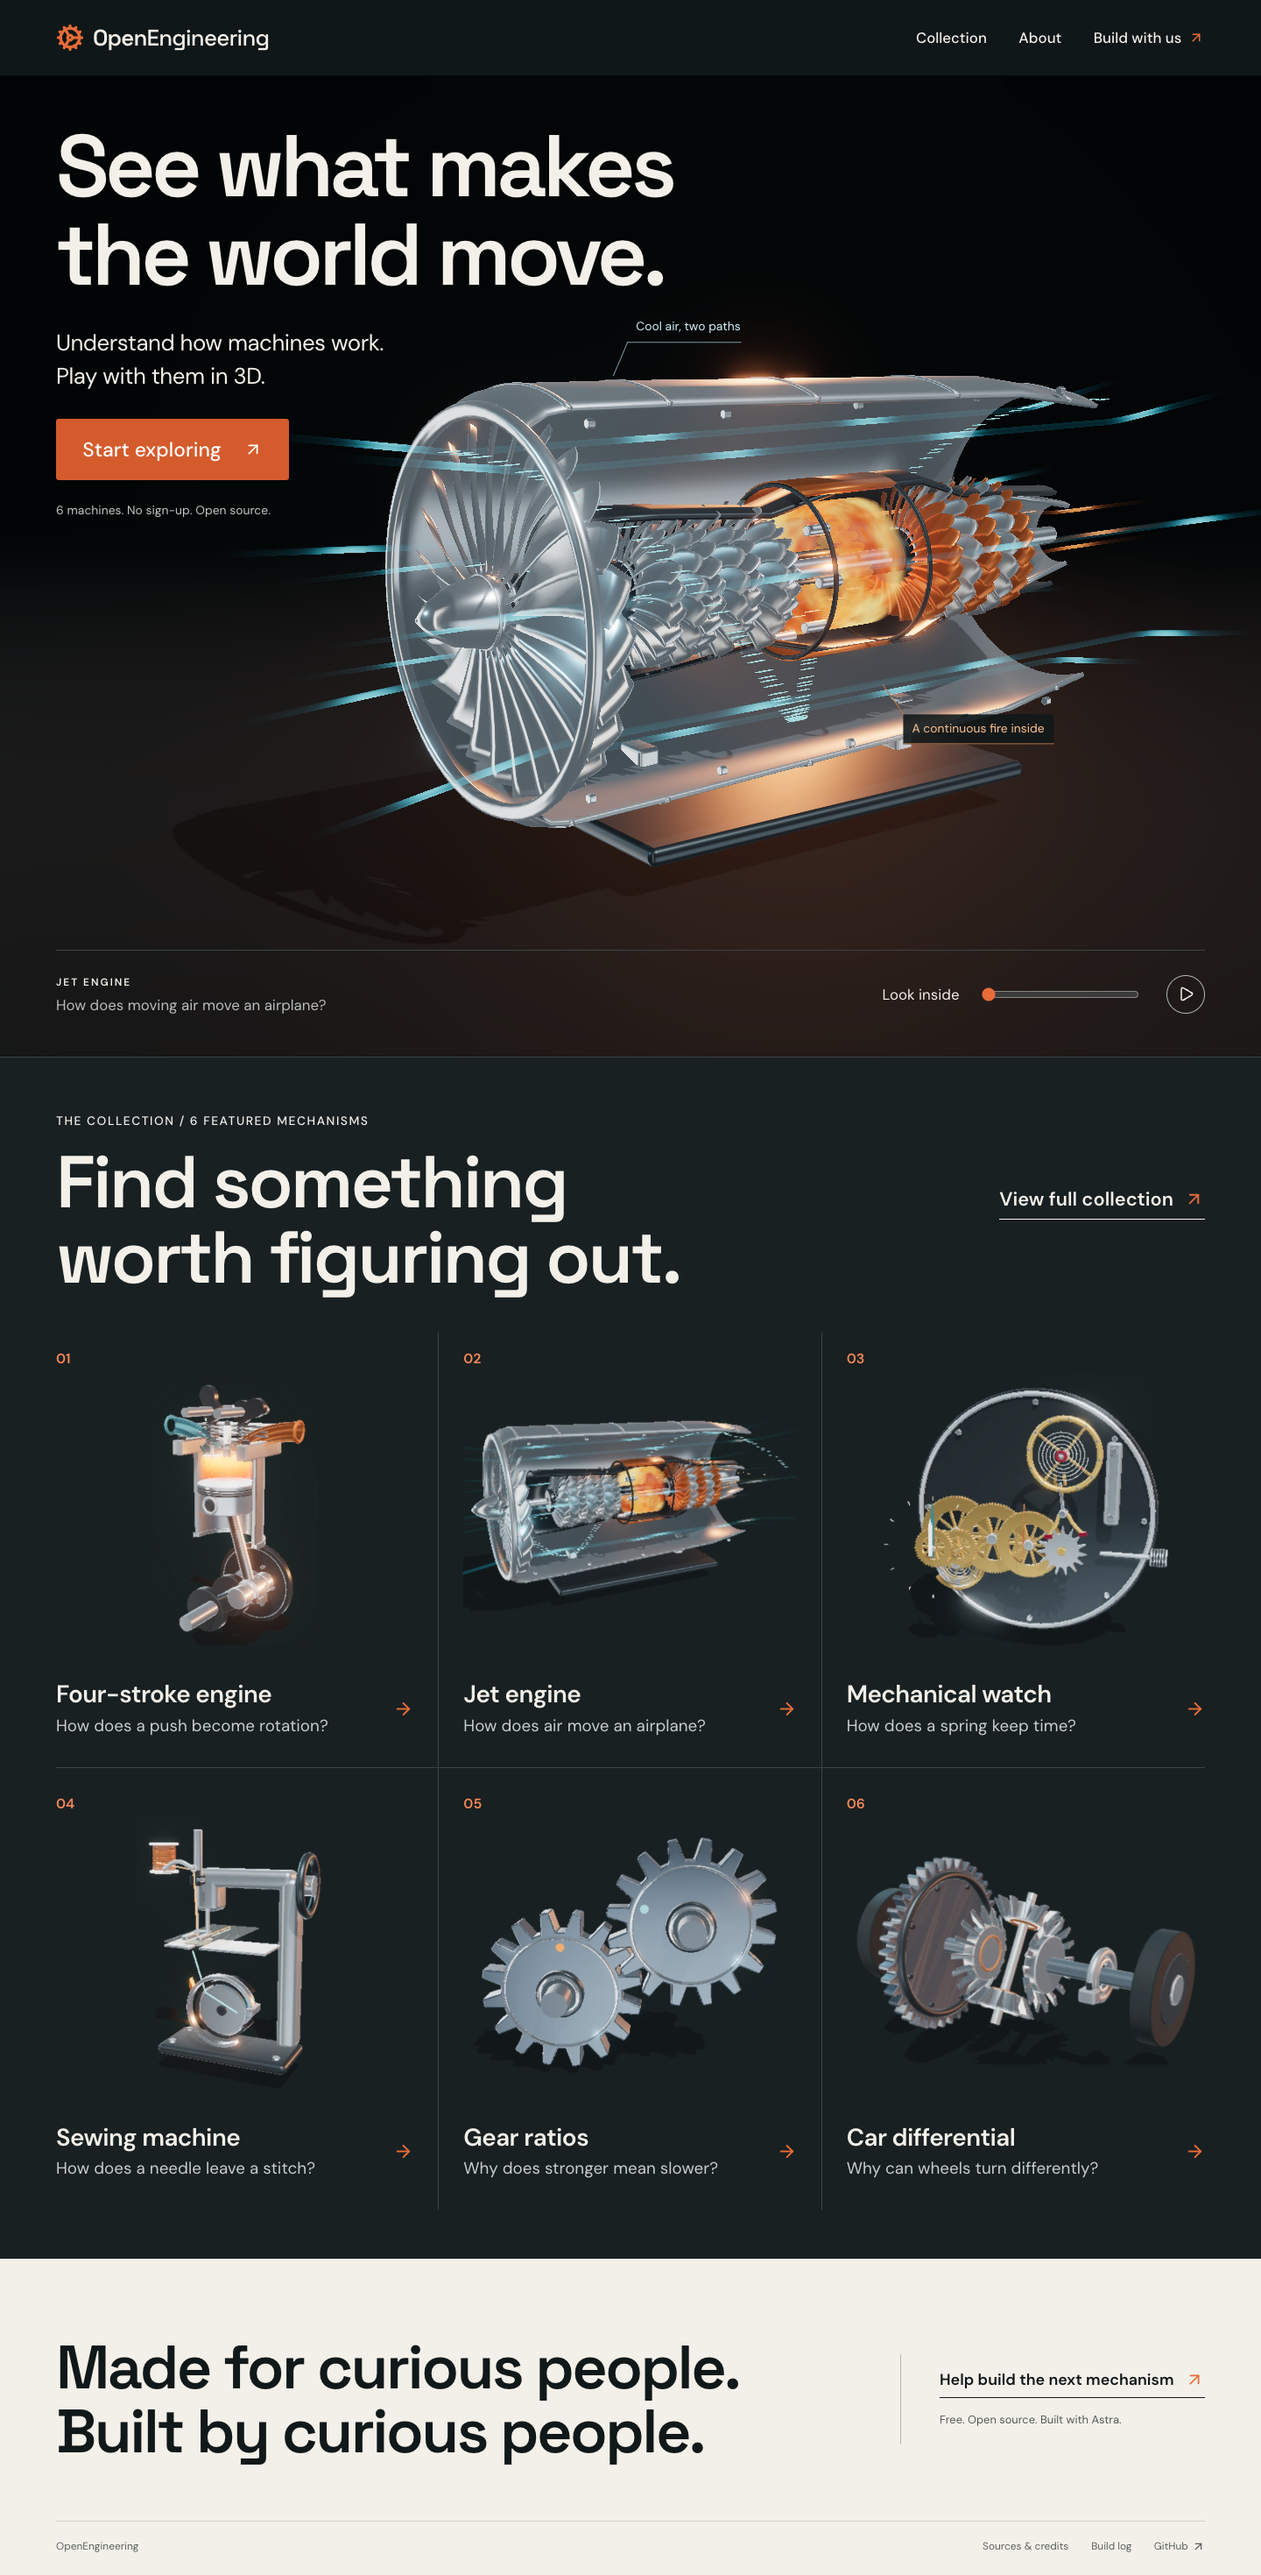
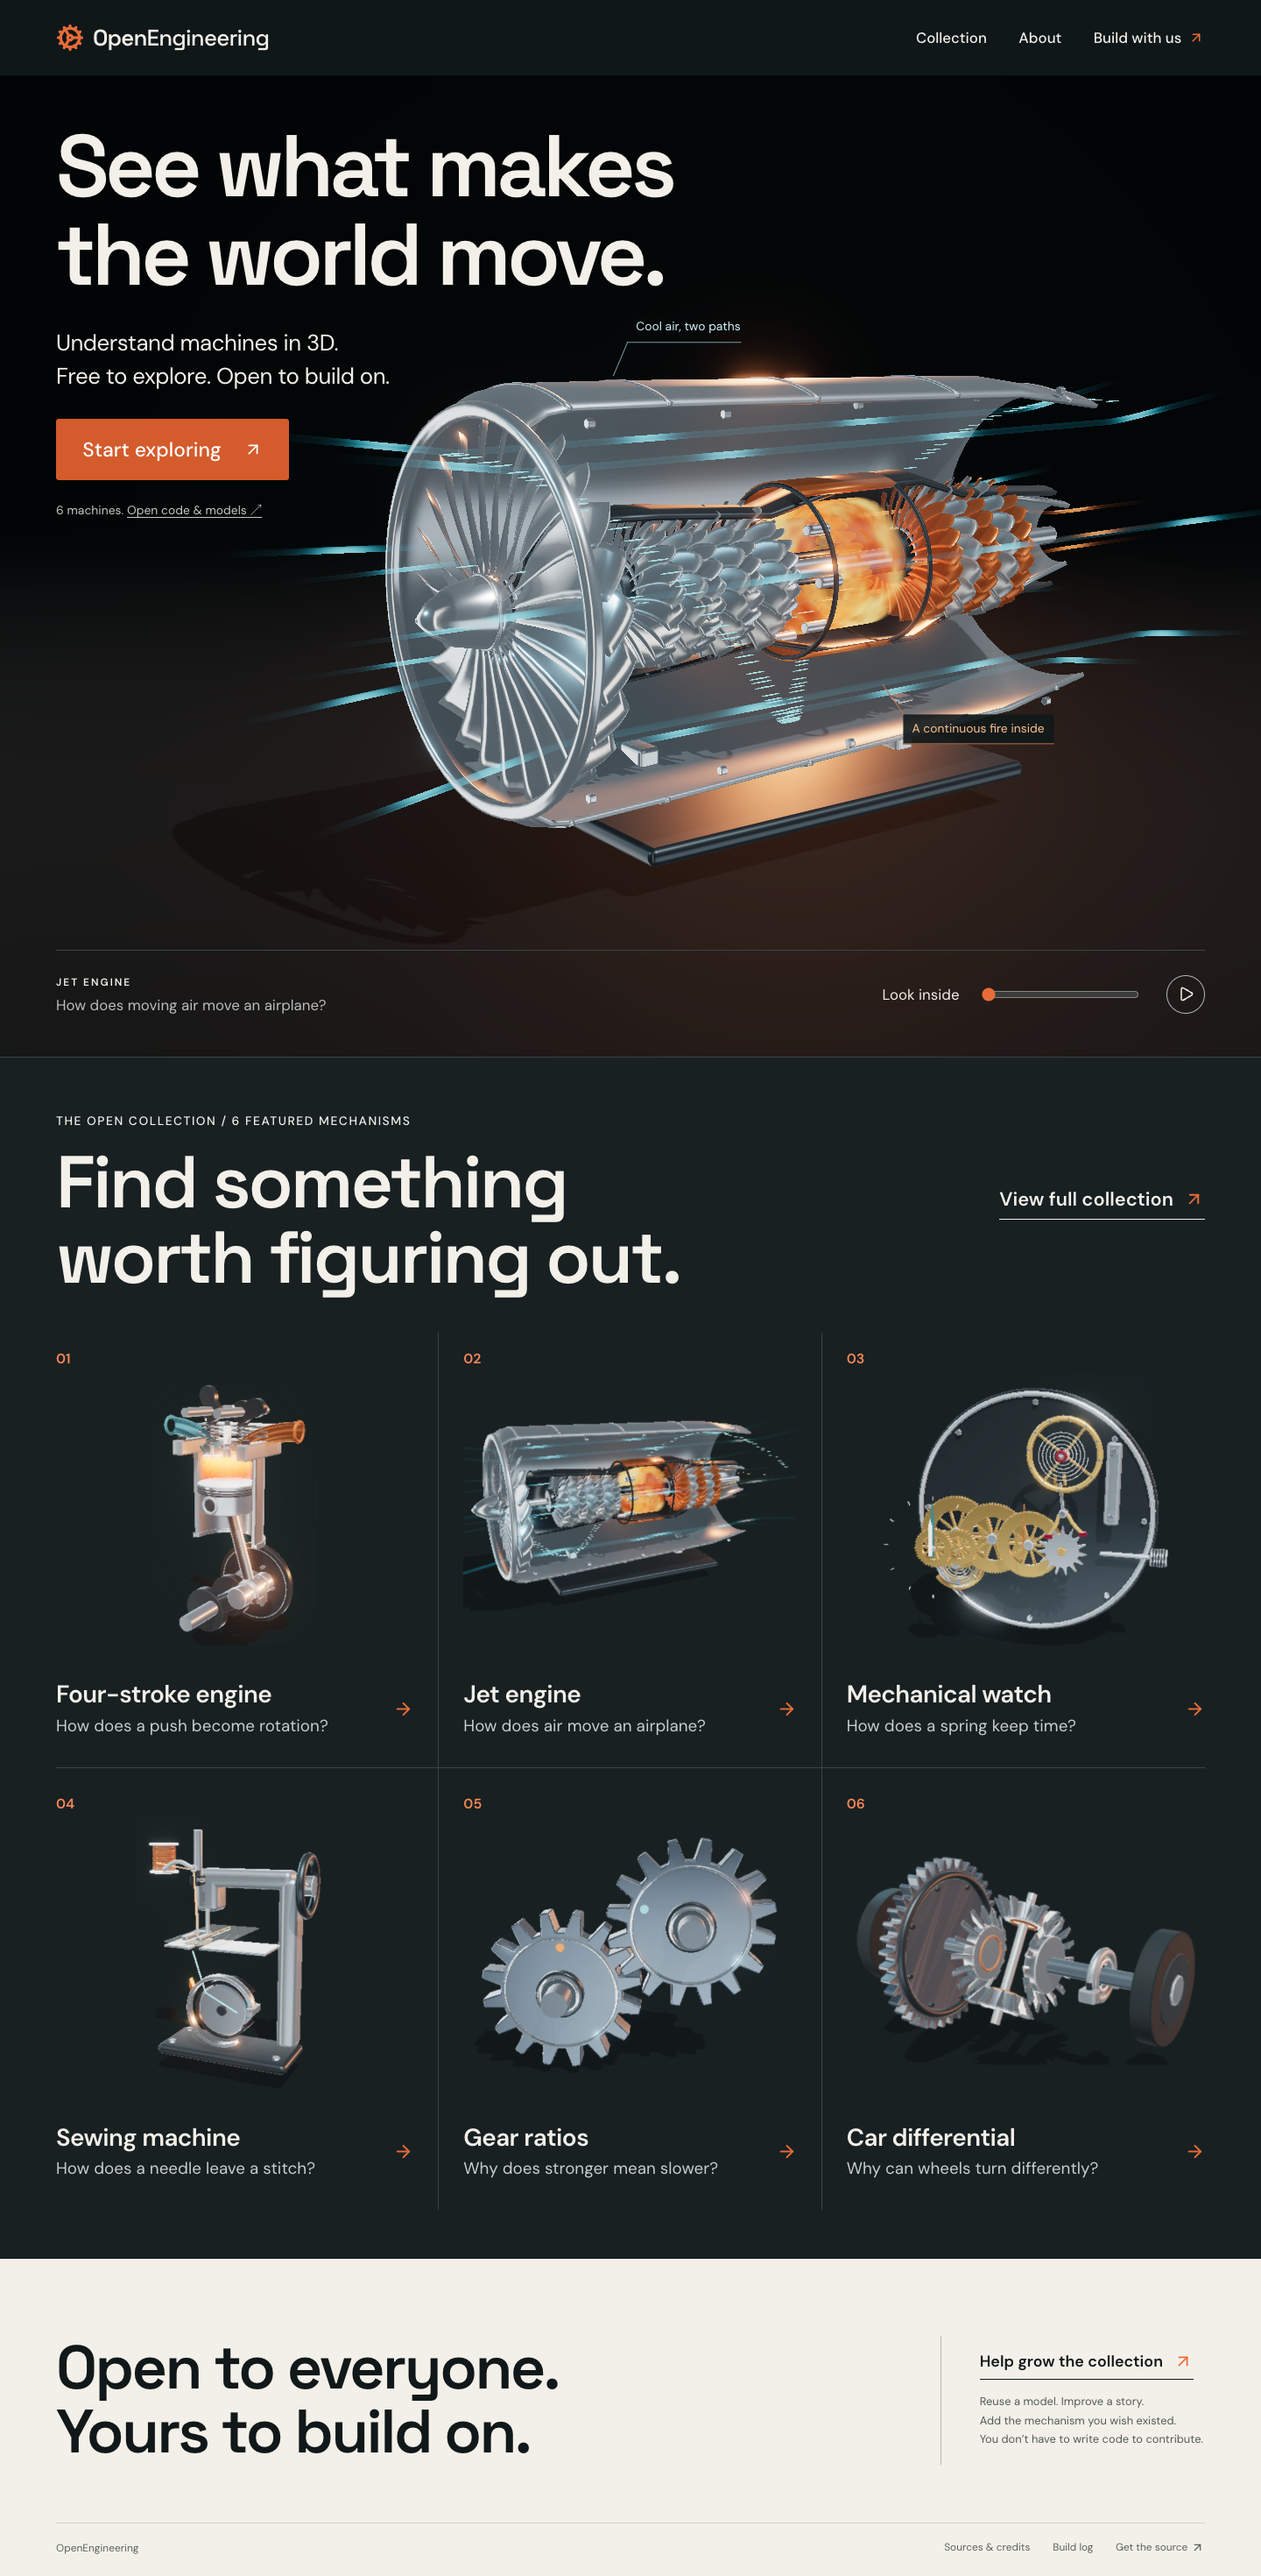
Emphasize open code, reuse, and contributions in homepage copy

diff --git a/src/components/HomeHero.tsx b/src/components/HomeHero.tsx
@@ -2,7 +2,7 @@ import { lazy, Suspense, useCallback, useEffect, useRef, useState } from 'react'
 import { ArrowUpRight, Pause, Play } from 'lucide-react';
 import type { MotionClock } from '../lib/presentation';
 import { heroPlayback, legacyEngineLink } from '../lib/home';
-import { path } from '../lib/paths';
+import { path, REPOSITORY } from '../lib/paths';
 const Viewport = lazy(() => import('./SceneViewport'));
 export default function HomeHero({ count }: { count: number }) {
   const [mounted, setMounted] = useState(false),
@@ -76,9 +76,9 @@ export default function HomeHero({ count }: { count: number }) {
             the world move.
           </h1>
           <p className="hero-promise">
-            Understand how machines work.
+            Understand machines in 3D.
             <br />
-            Play with them in 3D.
+            Free to explore. Open to build on.
           </p>
           <a
             className="home-primary"
@@ -86,7 +86,9 @@ export default function HomeHero({ count }: { count: number }) {
           >
             Start exploring <ArrowUpRight size={22} aria-hidden="true" />
           </a>
-          <p className="hero-reassurance">{count} machines. No sign-up. Open source.</p>
+          <p className="hero-reassurance">
+            {count} machines. <a href={REPOSITORY}>Open code &amp; models ↗</a>
+          </p>
         </div>
         <div
           className="hero-machine scene-canvas"

diff --git a/src/components/CaptureTools.tsx b/src/components/CaptureTools.tsx
@@ -122,11 +122,11 @@ export default function CaptureTools() {
       ctx.fillText(line, 50, 185 + index * 67),
     );
     ctx.font = '24px "DM Sans"';
-    ctx.fillText('Understand how machines work.', 50, 320);
-    ctx.fillText('Play with them in 3D.', 50, 355);
+    ctx.fillText('Understand machines in 3D.', 50, 320);
+    ctx.fillText('Free to explore. Open to build on.', 50, 355);
     ctx.fillStyle = '#ed8150';
     ctx.font = '500 16px "DM Sans"';
-    ctx.fillText('SIX MACHINES. FREE. OPEN SOURCE.', 50, 569);
+    ctx.fillText('OPEN CODE. OPEN MODELS. OPEN TO EVERYONE.', 50, 569);
     const blob = await new Promise<Blob | null>((resolve) => canvas.toBlob(resolve));
     if (blob) {
       await saveMedia(blob, 'openengineering-social-home.png');

diff --git a/src/styles/home.css b/src/styles/home.css
@@ -816,3 +816,8 @@
     font-size: 18px;
   }
 }
+
+.hero-reassurance a {
+  text-decoration: underline;
+  text-underline-offset: 3px;
+}

diff --git a/design-qa.md b/design-qa.md
@@ -41,3 +41,7 @@ The live teaching assemblies are simpler and less photorealistic than the genera
 - Astro/TypeScript reports zero errors, warnings or hints; 14 static routes build. Vite's existing large Three.js chunk notice remains.
 - Local production observations: approximately 0.78–0.89 seconds to renderer readiness and 120 fps at high quality in the in-app desktop browser, localhost, without network throttling. These are desktop observations, not a cold phone-network benchmark. Phone five-second interaction and 30 fps acceptance remain unverified.
 - Final homepage gallery, transparent previews, social card, jet portrait clip and refreshed collection demo were inspected. Videos are actual scene captures; the nominal 55-second demo is about 55.6 seconds including scene readiness transitions.
+
+## Open-source copy follow-up
+
+The hero now leads with “Free to explore. Open to build on” and links directly to the open code and models. The footer invites model reuse, story improvements and contributions from people who do not write code. Collection metadata and the homepage social card carry the same emphasis. Checked copy wrapping at 390, 737, 1024 and 1440 px and refreshed the desktop/phone galleries. Existing tests pass; no mechanism behavior changed.
